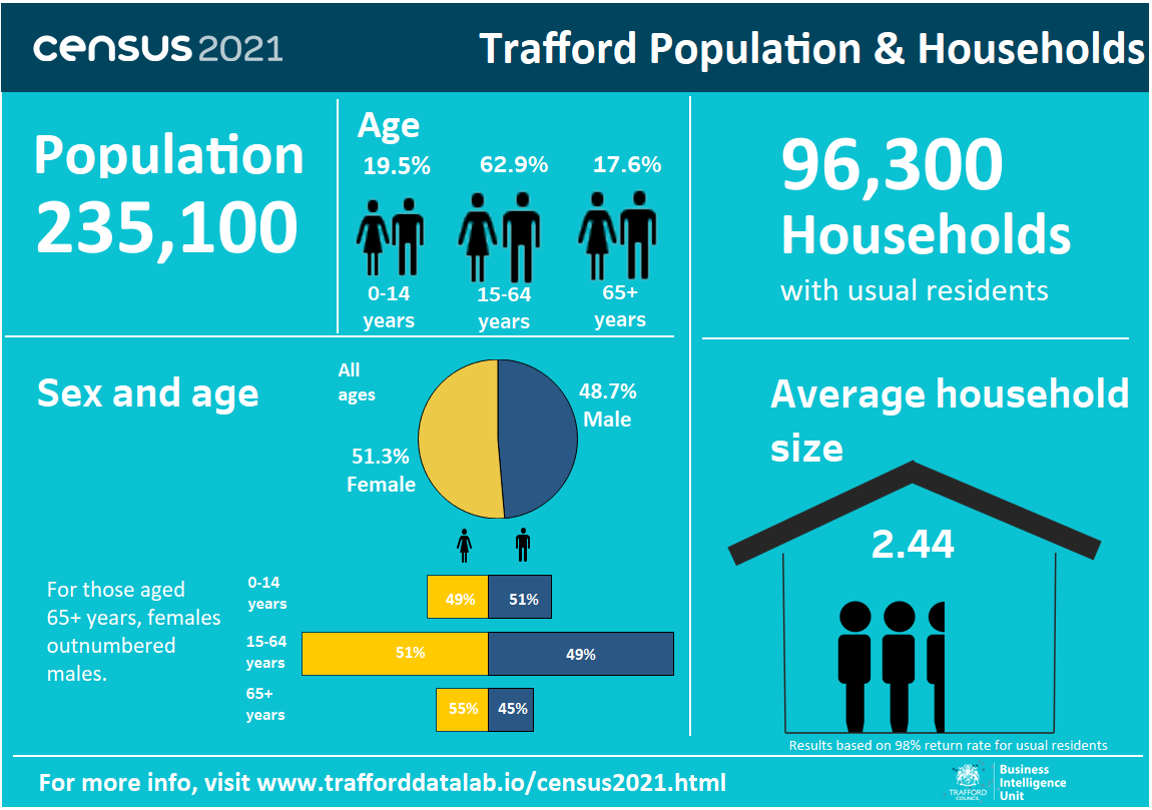
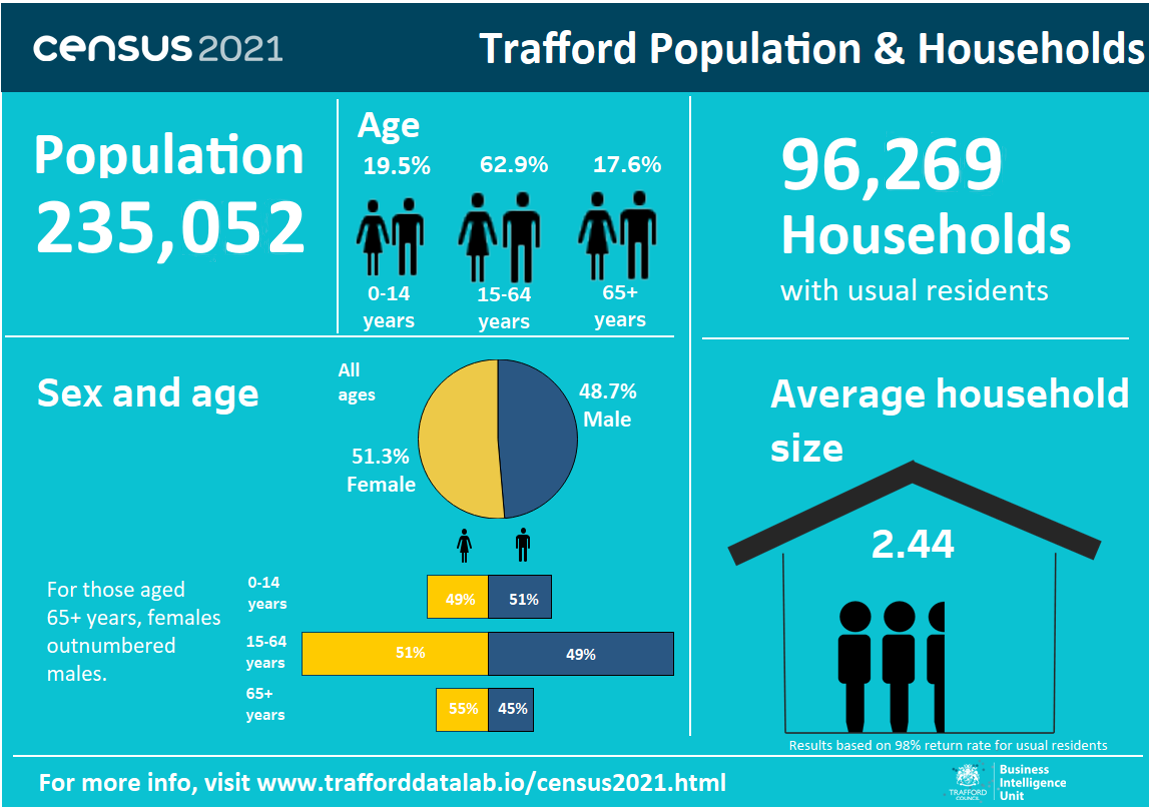
Updating incorrect or rounded figures to the correct, unrounded values.

Changed region(s): [[0.75, 0.1543, 0.875, 0.2469], [0.1562, 0.2469, 0.2812, 0.3086]]

diff --git a/accessible_graphics/census_2021_population_and_households_infographic.html b/accessible_graphics/census_2021_population_and_households_infographic.html
@@ -28,7 +28,7 @@
             <figure>
                 <img src="../images/census_2021_population_and_households_infographic.png" width="600" alt="Infographic showing population and household statistics from the census 2021 data for Trafford."/>
                 <figcaption>
-                    The infographic containing statistics from the census taken on Sunday 21 March 2021 shows that there were approximately 235,100 people usually resident within Trafford. 19.5% were aged 0-14 years, 62.9% were aged 15-64 years and 17.6% were aged 65 years and over. Overall the percentage of females was slightly higher than males, 51.3% compared with 48.7%, and this was also true of the 15-64 age group (51% compared with 49%) and the 65 years and over age group (55% compared with 45%). The 0-14 age group showed slightly fewer females (49%) than males (51%). There were approximately 96,300 households with usual residents in Trafford, with an average household size of 2.44. These results were based on a 98% return rate for usual residents.
+                    The infographic containing statistics from the census taken on Sunday 21 March 2021 shows that there were 235,052 people usually resident within Trafford. 19.5% were aged 0-14 years, 62.9% were aged 15-64 years and 17.6% were aged 65 years and over. Overall the percentage of females was slightly higher than males, 51.3% compared with 48.7%, and this was also true of the 15-64 age group (51% compared with 49%) and the 65 years and over age group (55% compared with 45%). The 0-14 age group showed slightly fewer females (49%) than males (51%). There were 96,269 households with usual residents in Trafford, with an average household size of 2.44. These results were based on a 98% return rate for usual residents.
                 </figcaption>
             </figure>
         </main>

diff --git a/accessible_graphics/census_2021_language_and_religion_infographic.html b/accessible_graphics/census_2021_language_and_religion_infographic.html
@@ -28,7 +28,7 @@
             <figure>
                 <img src="../images/census_2021_language_and_religion_infographic.png" width="600" alt="Infographic highlighting language and religious affiliation in Trafford from census 2021 data."/>
                 <figcaption>
-                    The infographic, containing statistics released on <time datetime="2022-11-09">09 November 2022</time> from the census taken on Sunday 21 March 2021, shows that there are 85 different languages spoken in Trafford. 82.9% of residents use English as their main language and the second most used languages (2.7%) were South Asian languages, of which Urdu was the most common (0.9% of residents). With regards to religion, 1 in 3 residents have no religious affiliation (previously this was 1 in 5). The number of residents identifying as Christian was 113,712, representing 48.4% of the population. This is a decrease of 15% from the previous census in 2011.
+                    The infographic, containing statistics released on <time datetime="2022-11-09">09 November 2022</time> from the census taken on Sunday 21 March 2021, shows that there are 85 different languages spoken in Trafford. 92.8% of residents use English as their main language and the second most used languages (2.7%) were South Asian languages, of which Urdu was the most common (0.9% of residents). With regards to religion, 1 in 3 residents have no religious affiliation (previously this was 1 in 5). The number of residents identifying as Christian was 113,712, representing 48.4% of the population. This is a decrease of 15% from the previous census in 2011.
                 </figcaption>
             </figure>
         </main>
